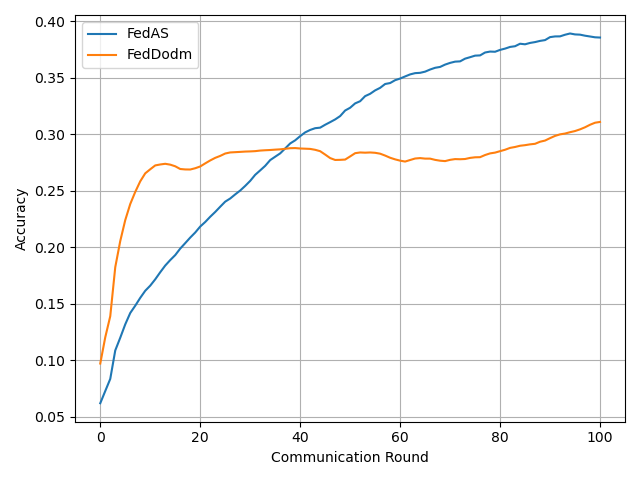
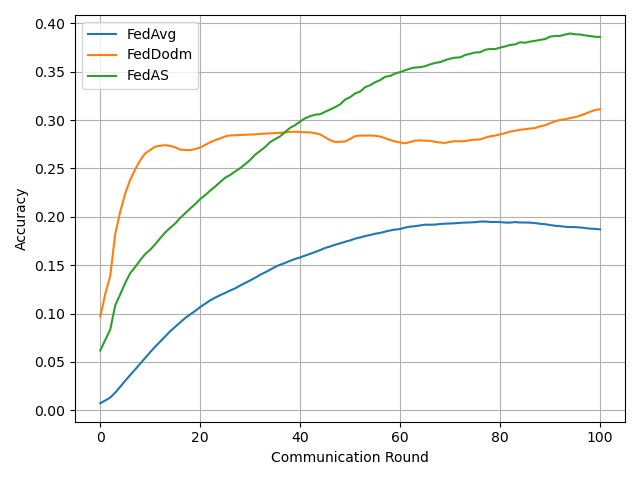
0713

diff --git a/README.md b/README.md
@@ -76,6 +76,12 @@ python main.py -data TinyImagenet -ncl 200 -m CNN -algo FedAvg -gr 100 -did 0
 python main.py -data FashionMNIST -m CNN -algo FedAvg -gr 100 -did 0,1,2,3 # running on multiple GPUs
 ```
 
+4. Accuracy visualization
+
+```sh
+python plot_accuracy.py path_to_csv  path_to_csv
+```
+
 ### Extend new algorithms and datasets
 
 - **New Dataset**: To add a new dataset, simply create a `generate_DATA.py` file in `./dataset` and then write the download code and use the [utils](https://github.com/TsingZ0/PFLlib/tree/master/dataset/utils) as shown in `./dataset/generate_MNIST.py` (you can consider it as a template):
